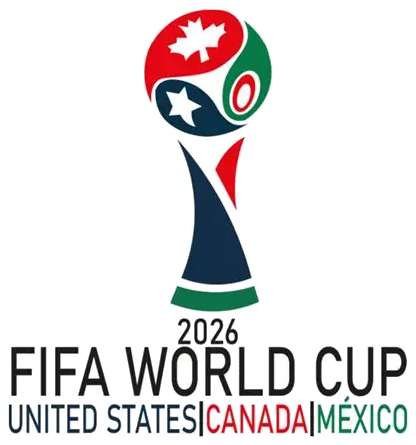
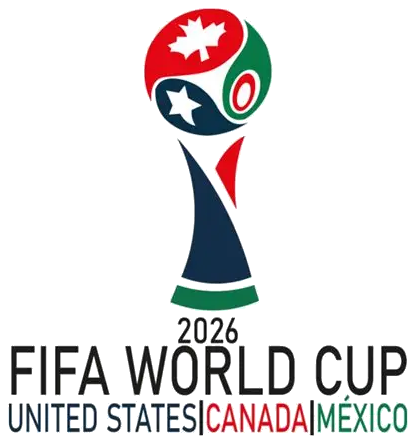
Responsive FIFA emblem: desktop keeps it below the QR (side panel); mobile-only moves it to centered bottom (empty space). Use newer full-transparent PNG + drop white glow haze

diff --git a/index.html b/index.html
@@ -370,6 +370,8 @@
       .vs-pm .pm-pct{min-width:68px} .vs-pm .pm-votes{font-size:.66rem} .vs-pm .pm-trend{font-size:.9rem}
       .vs-pm .vs-side{flex:0 0 auto;display:flex;justify-content:center;align-items:stretch}
       .vs-pm .vs-slot{flex:0 0 auto;max-width:230px}
+      .vs-pm .vs-slot-wc{display:none}         /* emblem FIFA tidak di panel samping saat mobile */
+      .vs-pm .vs-foot{display:flex}            /* emblem FIFA pindah ke tengah bawah (area kosong mobile) */
       .vs-pm .vqr{flex-direction:column;gap:0} .vs-pm .vqr-arrow{display:none}
       .vs-pm .vqr-card{padding:8px 9px} .vs-pm .vqr-title{font-size:.72rem;margin-bottom:4px}
       .vs-pm .vqr-img{width:118px;height:118px} .vs-pm .vqr-sub{font-size:.6rem}
@@ -394,11 +396,11 @@
     .wc-img{max-width:100%;max-height:100%;object-fit:contain;filter:drop-shadow(0 8px 22px rgba(0,0,0,.3))}
     .wc-date{flex:0 0 auto;font-size:.72rem;font-weight:800;padding:5px 13px;border-radius:999px;background:rgba(255,209,102,.16);border:1px solid rgba(255,209,102,.45);color:#f5a623;white-space:nowrap}
     .vs-pm .wc-date{color:#ffd166}
-    /* Footer emblem WC: PNG transparan, TANPA kotak, di tengah bawah page, skala mengikuti ruang */
-    .vs-foot{flex:0 0 auto;display:flex;align-items:center;justify-content:center;padding:6px 0 2px}
+    /* Footer emblem WC: HANYA tampil di mobile (desktop pakai posisi lama di bawah QR). PNG transparan, TANPA kotak & TANPA glow, di tengah bawah */
+    .vs-foot{display:none;flex:0 0 auto;align-items:center;justify-content:center;padding:6px 0 2px}
     .vs-foot .wc-badge{flex-direction:column;height:auto;gap:8px}
     .vs-foot .wc-logo{flex:0 0 auto;width:auto;padding:0;background:none;border:0;box-shadow:none}
-    .vs-foot .wc-img{max-height:min(15vh,150px);max-width:min(62vw,320px);filter:drop-shadow(0 3px 10px rgba(0,0,0,.45)) drop-shadow(0 0 14px rgba(255,255,255,.28))}
+    .vs-foot .wc-img{max-height:min(15vh,150px);max-width:min(62vw,320px);filter:drop-shadow(0 4px 12px rgba(0,0,0,.5))}
     .wc-fb{display:none;flex-direction:column;align-items:center;text-align:center;background:#fff;border:3px solid #ffd166;border-radius:18px;padding:14px 18px;box-shadow:0 16px 44px rgba(0,0,0,.30)}
     .wc-ico{font-size:3rem;line-height:1;filter:drop-shadow(0 4px 8px rgba(245,166,35,.5))}
     .wc-t1{font-weight:900;font-size:1.02rem;letter-spacing:.1em;color:var(--astra-dark);margin-top:8px}
@@ -463,10 +465,10 @@
 
   <div class="toast" id="toast"></div>
 
-  <script src="config.js?v=28"></script>
+  <script src="config.js?v=29"></script>
   <script src="https://www.gstatic.com/firebasejs/10.12.2/firebase-app-compat.js"></script>
   <script src="https://www.gstatic.com/firebasejs/10.12.2/firebase-firestore-compat.js"></script>
-  <script src="app.js?v=28"></script>
+  <script src="app.js?v=29"></script>
   <script>App.boot();</script>
 </body>
 </html>

diff --git a/app.js b/app.js
@@ -1043,7 +1043,7 @@
         '</div>' +
         '<div class="vs-body">' +
           '<div class="pm-list">' + rows + '</div>' +
-          (sess.isOwner ? '<aside class="vs-side"><div class="vs-slot">' + voteQrHTML(ev) + '</div></aside>' : '') +
+          (sess.isOwner ? '<aside class="vs-side"><div class="vs-slot">' + voteQrHTML(ev) + '</div><div class="vs-slot vs-slot-wc">' + wcBadgeHTML() + '</div></aside>' : '') +
         '</div>' +
         '<div class="vs-foot">' + wcBadgeHTML() + '</div>' +
         '<div class="vs-copy">System Development — GA Dept · © 2026 PT Astra International Tbk</div>' +
